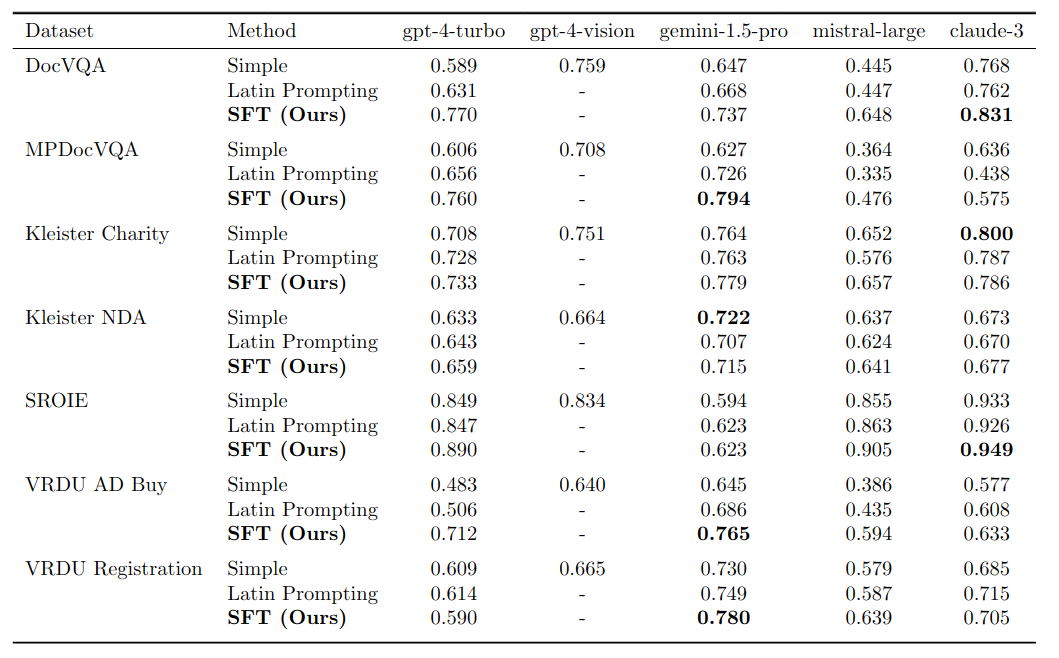
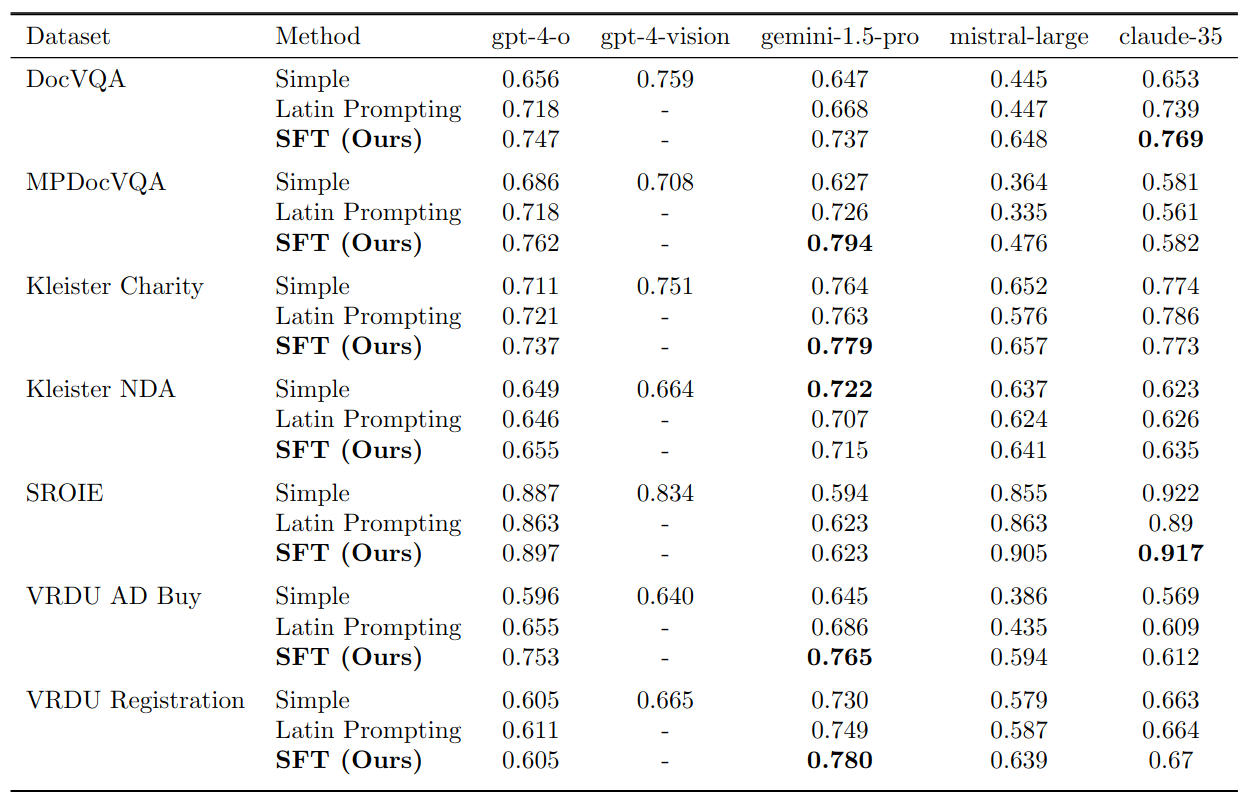
Added claude-35

diff --git a/src/utils/misc.py b/src/utils/misc.py
@@ -64,6 +64,8 @@ def create_llm(*, model:str):
         model = "gpt-4-1106-preview"
     elif model == "claude-3":
         model = "claude-3-opus-20240229"
+    elif model == "claude-35":
+        model = "claude-3-5-sonnet-20240620"
 
     settings = {
         "temperature": 0.0,
